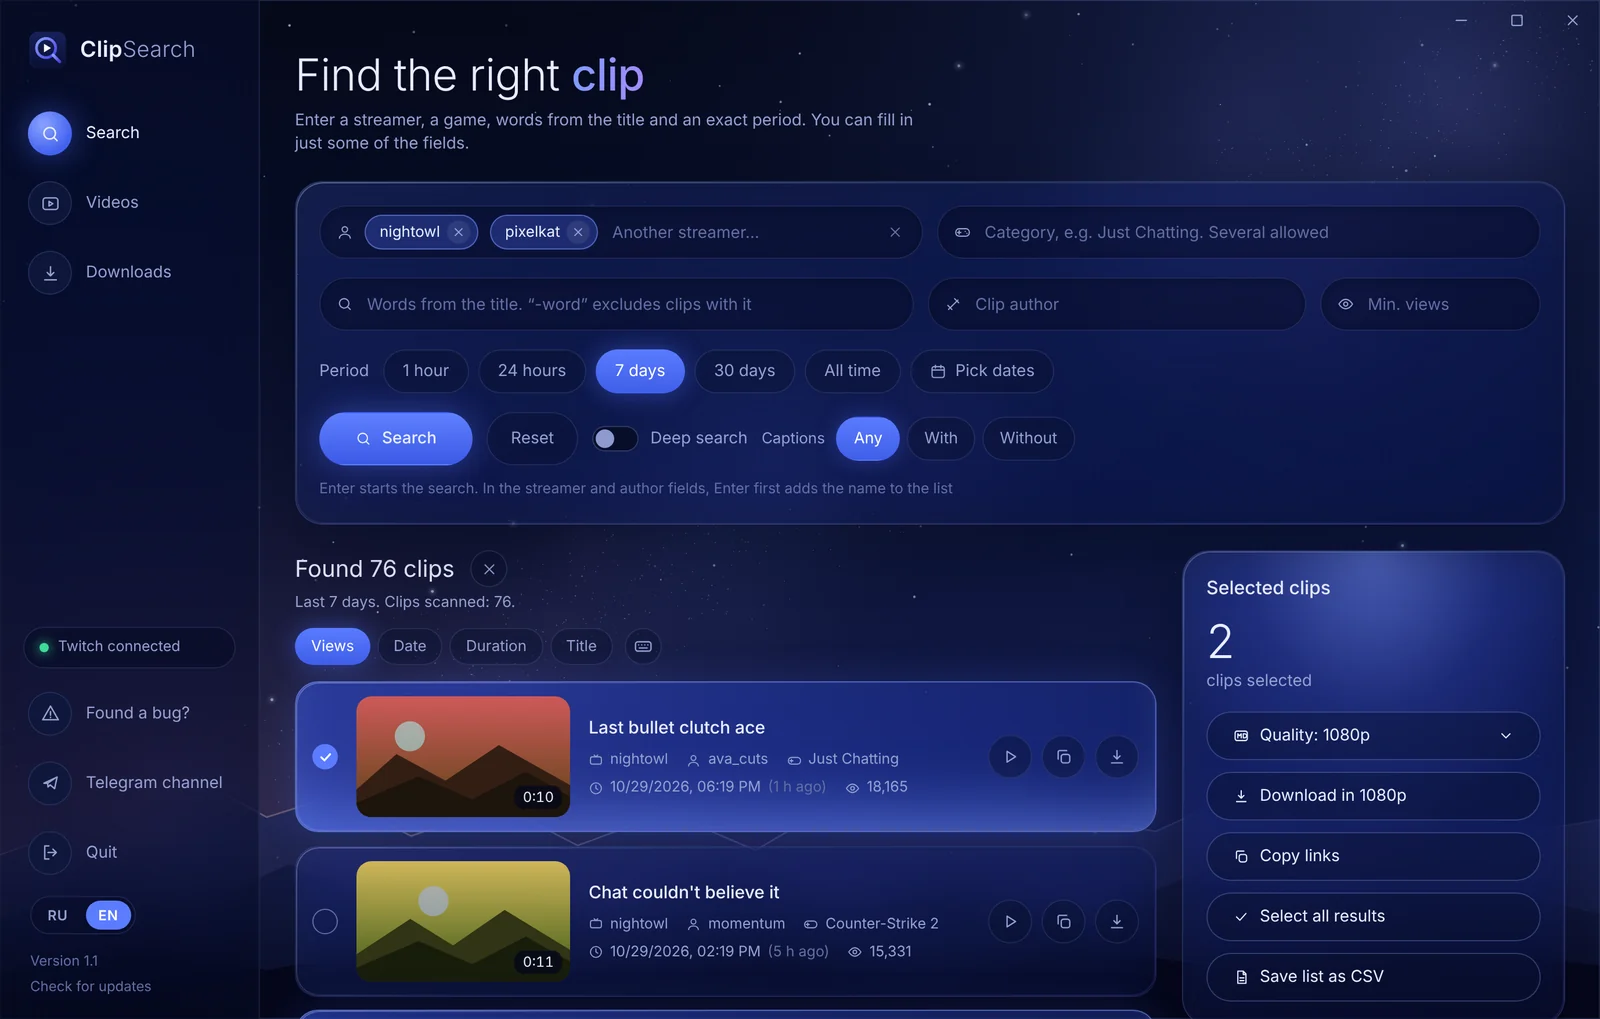
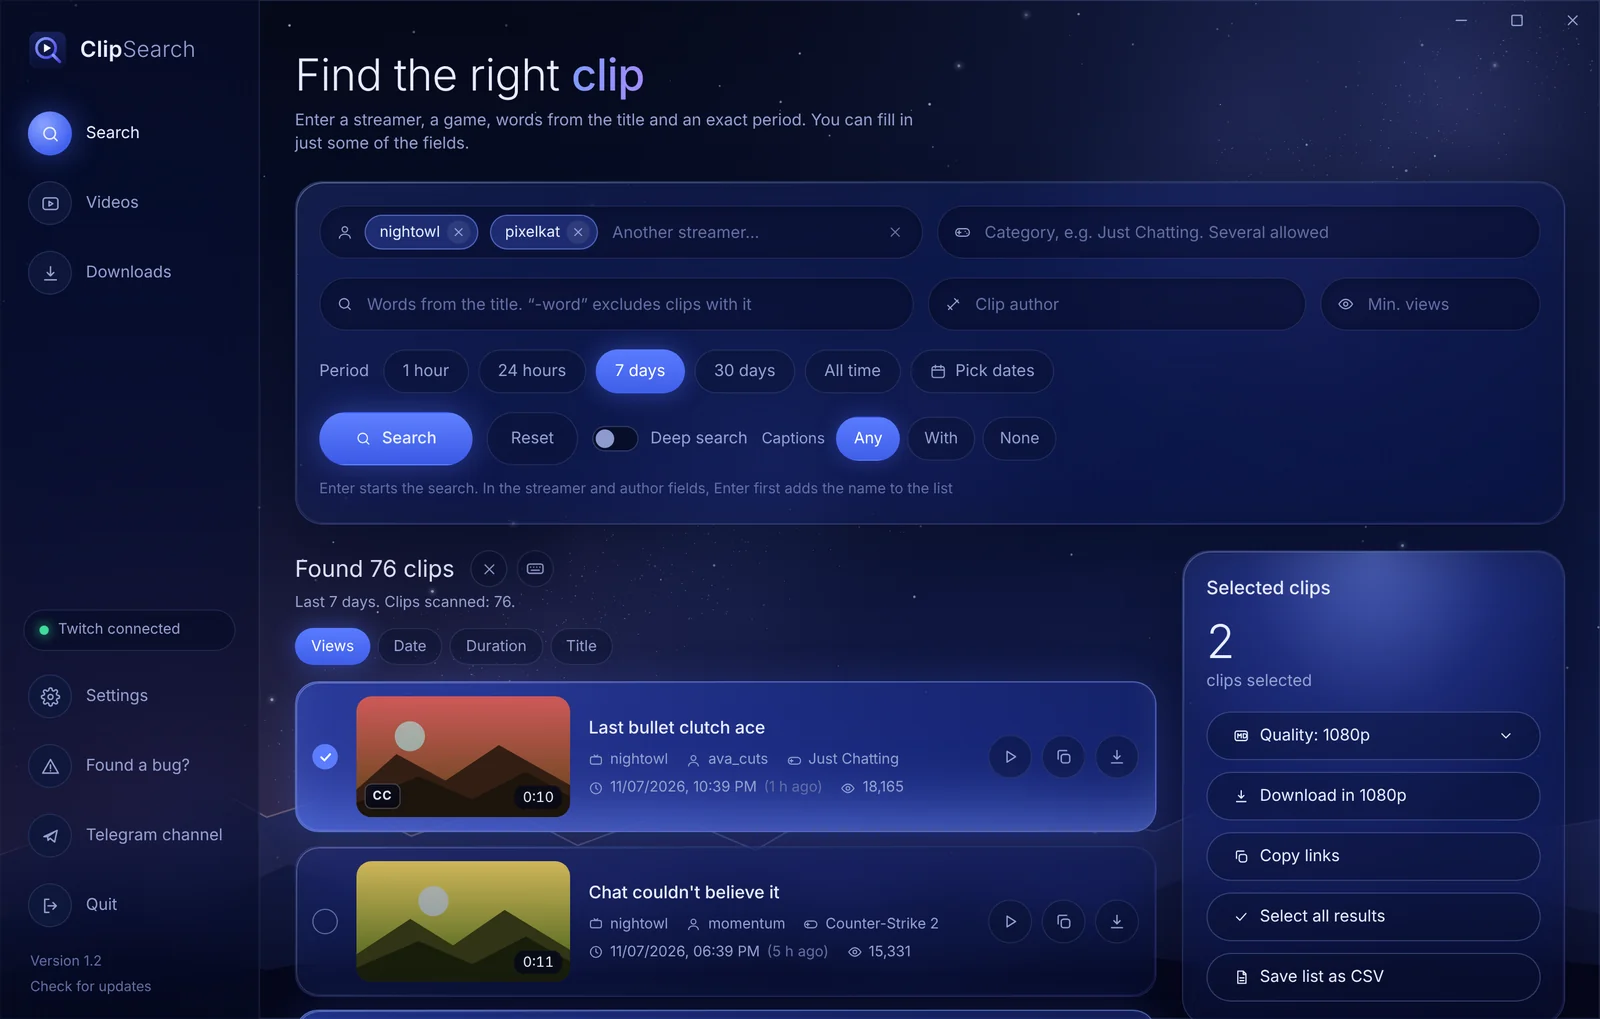
Site: version 1.2, fresh app screenshots

diff --git a/site/index.html b/site/index.html
@@ -13,7 +13,7 @@
 <meta property="og:title" content="ClipSearch — поиск и скачивание клипов Twitch">
 <meta property="og:description" content="Найдите клип Twitch за минуту и скачайте в 1080p. Бесплатно, без входа.">
 <meta property="og:url" content="https://clip-search.com/">
-<meta property="og:image" content="https://clip-search.com/og.jpg?v=5">
+<meta property="og:image" content="https://clip-search.com/og.jpg?v=6">
 <meta name="twitter:card" content="summary_large_image">
 <meta name="theme-color" content="#070b1f">
 <link rel="icon" href="logo.svg" type="image/svg+xml">
@@ -579,7 +579,7 @@ footer a { color: var(--muted); }
     </div>
     <div class="stage">
       <div class="win" id="win">
-        <img src="shot.webp?v=5" alt="Окно ClipSearch: найдено 76 клипов у двух стримеров за 7 дней, два клипа выбраны для скачивания в 1080p" width="1600" height="1019" loading="lazy">
+        <img src="shot.webp?v=6" alt="Окно ClipSearch: найдено 76 клипов у двух стримеров за 7 дней, два клипа выбраны для скачивания в 1080p" width="1600" height="1019" loading="lazy">
         <div class="shine"></div>
       </div>
     </div>
@@ -722,7 +722,9 @@ footer a { color: var(--muted); }
       <h2>История <b>версий</b></h2>
     </div>
     <div class="log glass">
-      <div class="ver"><b>1.1</b><span>29 октября 2026</span><span class="now">Текущая</span></div>
+      <div class="ver"><b>1.2</b><span>8 ноября 2026</span><span class="now">Текущая</span></div>
+      <div><ul><li>Значок «Скачан» на клипах, которые уже лежат в папке загрузок: нажмите — откроется файл. Кнопка «Скрыть скачанные» убирает их из списка.</li><li>Значок CC на клипах с субтитрами.</li><li>Повторный поиск за 12 часов открывается почти мгновенно, а кнопка «Обновить» заново спрашивает Twitch.</li><li>Окно «Настройки»: до 4 загрузок одновременно, шаблон имени файла, звук по окончании загрузок, период и глубокий поиск по умолчанию, язык.</li><li>Записи трансляций: поиск по названию, сортировка, фильтры по длине и категории. На карточке видно, во что играл стример и когда, и сколько звука заглушил Twitch.</li><li>В окне скачивания записи отрезок с нужной игрой выделяется одним нажатием.</li><li>Поиск работает в сетях, где провайдер замедляет зарубежные сайты: раньше там он заканчивался ошибкой «The read operation timed out».</li></ul></div>
+      <div class="ver"><b>1.1</b><span>29 октября 2026</span></div>
       <div><ul><li>Записи трансляций: скачивайте их целиком или вырезайте нужный кусок, в том числе у эфира, который ещё идёт.</li><li>Чат трансляции на записях: включите переключатель — и к скачанной записи добавится чат, каким он был в тот момент. Сообщения плавно появляются по ходу видео, а размер, положение и фон можно настроить.</li><li>Фильтр «Субтитры» в поиске: только клипы с субтитрами Twitch или только без них.</li><li>ClipSearch для macOS: Apple Silicon (M1 и новее) и Intel, macOS 11 и новее.</li><li>Установщик для Windows ставит именно ту версию, которую вы скачали.</li></ul></div>
       <div class="ver"><b>1.0</b><span>24 октября 2026</span></div>
       <div><ul><li>Первый публичный выпуск ClipSearch.</li><li>Поиск по стримерам, категориям, авторам и словам из названия за любой период, график «Когда сняты клипы».</li><li>Скачивание в 1080p, 720p или 480p, вырезание фрагмента во встроенном плеере, очередь загрузок.</li><li>Русский и английский язык интерфейса, кнопка Telegram-канала.</li><li>Обновления внутри программы.</li></ul></div>

diff --git a/site/en/index.html b/site/en/index.html
@@ -13,7 +13,7 @@
 <meta property="og:title" content="ClipSearch — search and download Twitch clips">
 <meta property="og:description" content="Find a Twitch clip in a minute and download it in 1080p. Free, no sign-in.">
 <meta property="og:url" content="https://clip-search.com/en/">
-<meta property="og:image" content="https://clip-search.com/og-en.jpg?v=5">
+<meta property="og:image" content="https://clip-search.com/og-en.jpg?v=6">
 <meta name="twitter:card" content="summary_large_image">
 <meta name="theme-color" content="#070b1f">
 <link rel="icon" href="../logo.svg" type="image/svg+xml">
@@ -579,7 +579,7 @@ footer a { color: var(--muted); }
     </div>
     <div class="stage">
       <div class="win" id="win">
-        <img src="../shot-en.webp?v=5" alt="ClipSearch window: 76 clips found for two streamers over 7 days, two clips selected for download in 1080p" width="1600" height="1019" loading="lazy">
+        <img src="../shot-en.webp?v=6" alt="ClipSearch window: 76 clips found for two streamers over 7 days, two clips selected for download in 1080p" width="1600" height="1019" loading="lazy">
         <div class="shine"></div>
       </div>
     </div>
@@ -722,7 +722,9 @@ footer a { color: var(--muted); }
       <h2>Version <b>history</b></h2>
     </div>
     <div class="log glass">
-      <div class="ver"><b>1.1</b><span>October 29, 2026</span><span class="now">Current</span></div>
+      <div class="ver"><b>1.2</b><span>November 8, 2026</span><span class="now">Current</span></div>
+      <div><ul><li>A “Downloaded” badge on clips that are already in your download folder: click it to open the file. “Hide downloaded” removes them from the list.</li><li>A CC badge on clips with captions.</li><li>Repeating a search within 12 hours opens almost instantly, and the “Refresh” button asks Twitch again.</li><li>A Settings window: up to 4 downloads at once, a file name template, a sound when downloads finish, default period and deep search, language.</li><li>Broadcast videos: search by title, sorting, filters by length and category. Each card shows what the streamer played and when, and how much audio Twitch muted.</li><li>In the video download window, one click selects the part with the game you need.</li><li>Search works on networks where the provider slows down foreign sites: before, it ended there with “The read operation timed out”.</li></ul></div>
+      <div class="ver"><b>1.1</b><span>October 29, 2026</span></div>
       <div><ul><li>Broadcast videos: download them whole or cut out the part you need, even from a stream that is still live.</li><li>Stream chat on broadcast videos: turn on the switch and the chat is added to the downloaded video as it was at that moment. Messages smoothly appear as it plays; size, position and background are adjustable.</li><li>“Captions” filter in search: only clips with Twitch captions or only without them.</li><li>ClipSearch for macOS: Apple Silicon (M1 and newer) and Intel, macOS 11 or later.</li><li>The Windows installer now installs exactly the version you downloaded.</li></ul></div>
       <div class="ver"><b>1.0</b><span>October 24, 2026</span></div>
       <div><ul><li>First public release of ClipSearch.</li><li>Search by streamers, categories, authors and title words over any period, plus the “When clips were made” chart.</li><li>Download in 1080p, 720p or 480p, trim clips in the built-in player, download queue.</li><li>English and Russian interface, Telegram channel button.</li><li>In-app updates.</li></ul></div>
